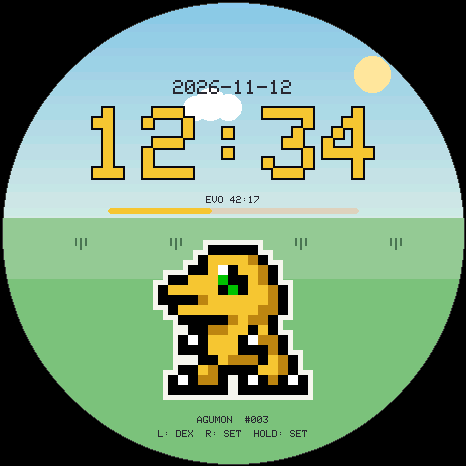
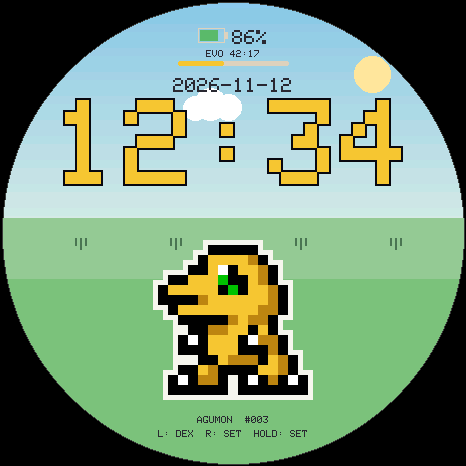
IdlePoke: fix power-save evolution jump, retune the idle HUD
- Ignore RTC jumps larger than the loop's monotonic delta, and reset the
  tick baseline when the power saver is toggled, so switching it on can no
  longer cash in evolution steps the player never earned.
- Draw the TamaClock battery gauge (26x14 icon + percentage) at the top.
- Move the EVO countdown above the date and shorten its bar to 110 px; the
  clock is now TamaClock's size 12 because the middle is free again.
- Update the preview renderer to the same coordinates and regenerate the
  IdlePoke / IdleDigi PNG and GIF previews.

Changed region(s): [[0.1202, 0.0601, 0.8712, 0.4807], [0.4506, 0.2403, 0.5107, 0.3605]]

diff --git a/tools/render_idle_preview.py b/tools/render_idle_preview.py
@@ -54,11 +54,13 @@ UI_BAR_BAD = 0xEA87
 UI_WHITE = 0xFFFF
 UI_BG_NIGHT = 0x0842  # dark outline behind the big clock
 
-TIME_Y = 108
-TIME_SIZE = 10
-DATE_Y = 80
-EVO_Y = 196
-BAR_X, BAR_Y, BAR_W, BAR_H = 108, 208, 250, 5
+TIME_Y = 100
+TIME_SIZE = 12
+DATE_Y = 78
+EVO_Y = 50
+BAR_X, BAR_Y, BAR_W, BAR_H = CX - 55, EVO_Y + 8 + 3, 110, 4
+BAT_X, BAT_Y, BAT_W, BAT_H = 198, 28, 26, 14
+BAT_PCT = 86
 LABEL_Y = 416
 HINT_Y = 438
 
@@ -177,21 +179,50 @@ def text_outlined(draw, font, s: str, y: int, size: int, color: int) -> None:
     draw_text(draw, font, s, x, y, size, color)
 
 
+def draw_battery(draw: ImageDraw.ImageDraw, font: bytes, pct: int = BAT_PCT,
+                 usb: bool = False) -> None:
+    """Same 26x14 gauge + "%d%%" label TamaClock/IdlePoke draw at the top."""
+    ink = rgb565(UI_INK)
+    level = UI_BAR_BAD if pct <= 15 else UI_BAR_WARN if pct <= 30 else UI_BAR_OK
+    draw.rectangle([BAT_X, BAT_Y, BAT_X + BAT_W, BAT_Y + BAT_H],
+                   outline=rgb565(UI_TRACK))
+    draw.rectangle([BAT_X + BAT_W, BAT_Y + 4, BAT_X + BAT_W + 3, BAT_Y + 10],
+                   fill=rgb565(UI_TRACK))
+    if usb:
+        draw.rectangle([BAT_X + 2, BAT_Y + 2, BAT_X + BAT_W - 2, BAT_Y + BAT_H - 2],
+                       fill=rgb565(UI_TRACK))
+        draw.polygon([(BAT_X + 15, BAT_Y + 2), (BAT_X + 9, BAT_Y + 8),
+                      (BAT_X + 14, BAT_Y + 8)], fill=ink)
+        draw.polygon([(BAT_X + 10, BAT_Y + 12), (BAT_X + 16, BAT_Y + 6),
+                      (BAT_X + 11, BAT_Y + 6)], fill=ink)
+    elif pct >= 0:
+        inner = (BAT_W - 4) * pct // 100
+        if inner > 0:
+            draw.rectangle([BAT_X + 2, BAT_Y + 2, BAT_X + 2 + inner - 1,
+                            BAT_Y + BAT_H - 2], fill=rgb565(level))
+    label = f"{pct}%" if pct >= 0 else "--"
+    draw_text(draw, font, label, BAT_X + BAT_W + 8, BAT_Y + 2, 2,
+              UI_BAR_OK if usb else UI_INK)
+
+
 def draw_hud(img: Image.Image, draw: ImageDraw.ImageDraw, font: bytes,
              name: str, dex: int, accent: int, remain: str, permille: int,
              night: bool = False, toast: str = "") -> None:
     ink = UI_INK_NIGHT if night else UI_INK
     date = "2026-11-12"
-    text_center(draw, font, date, DATE_Y, 2, ink)
-    text_outlined(draw, font, "12:34", TIME_Y, TIME_SIZE, accent)
+
+    draw_battery(draw, font)
 
     text_center(draw, font, f"EVO {remain}", EVO_Y, 1, ink)
     draw.rounded_rectangle([BAR_X, BAR_Y, BAR_X + BAR_W, BAR_Y + BAR_H],
-                           radius=3, fill=rgb565(UI_TRACK))
+                           radius=2, fill=rgb565(UI_TRACK))
     fw = BAR_W * permille // 1000
     if fw > 2:
         draw.rounded_rectangle([BAR_X, BAR_Y, BAR_X + fw, BAR_Y + BAR_H],
-                               radius=3, fill=rgb565(accent))
+                               radius=2, fill=rgb565(accent))
+
+    text_center(draw, font, date, DATE_Y, 2, ink)
+    text_outlined(draw, font, "12:34", TIME_Y, TIME_SIZE, accent)
 
     label = f"{name}  #{dex:03d}"
     text_center(draw, font, label, LABEL_Y, 1, ink)
